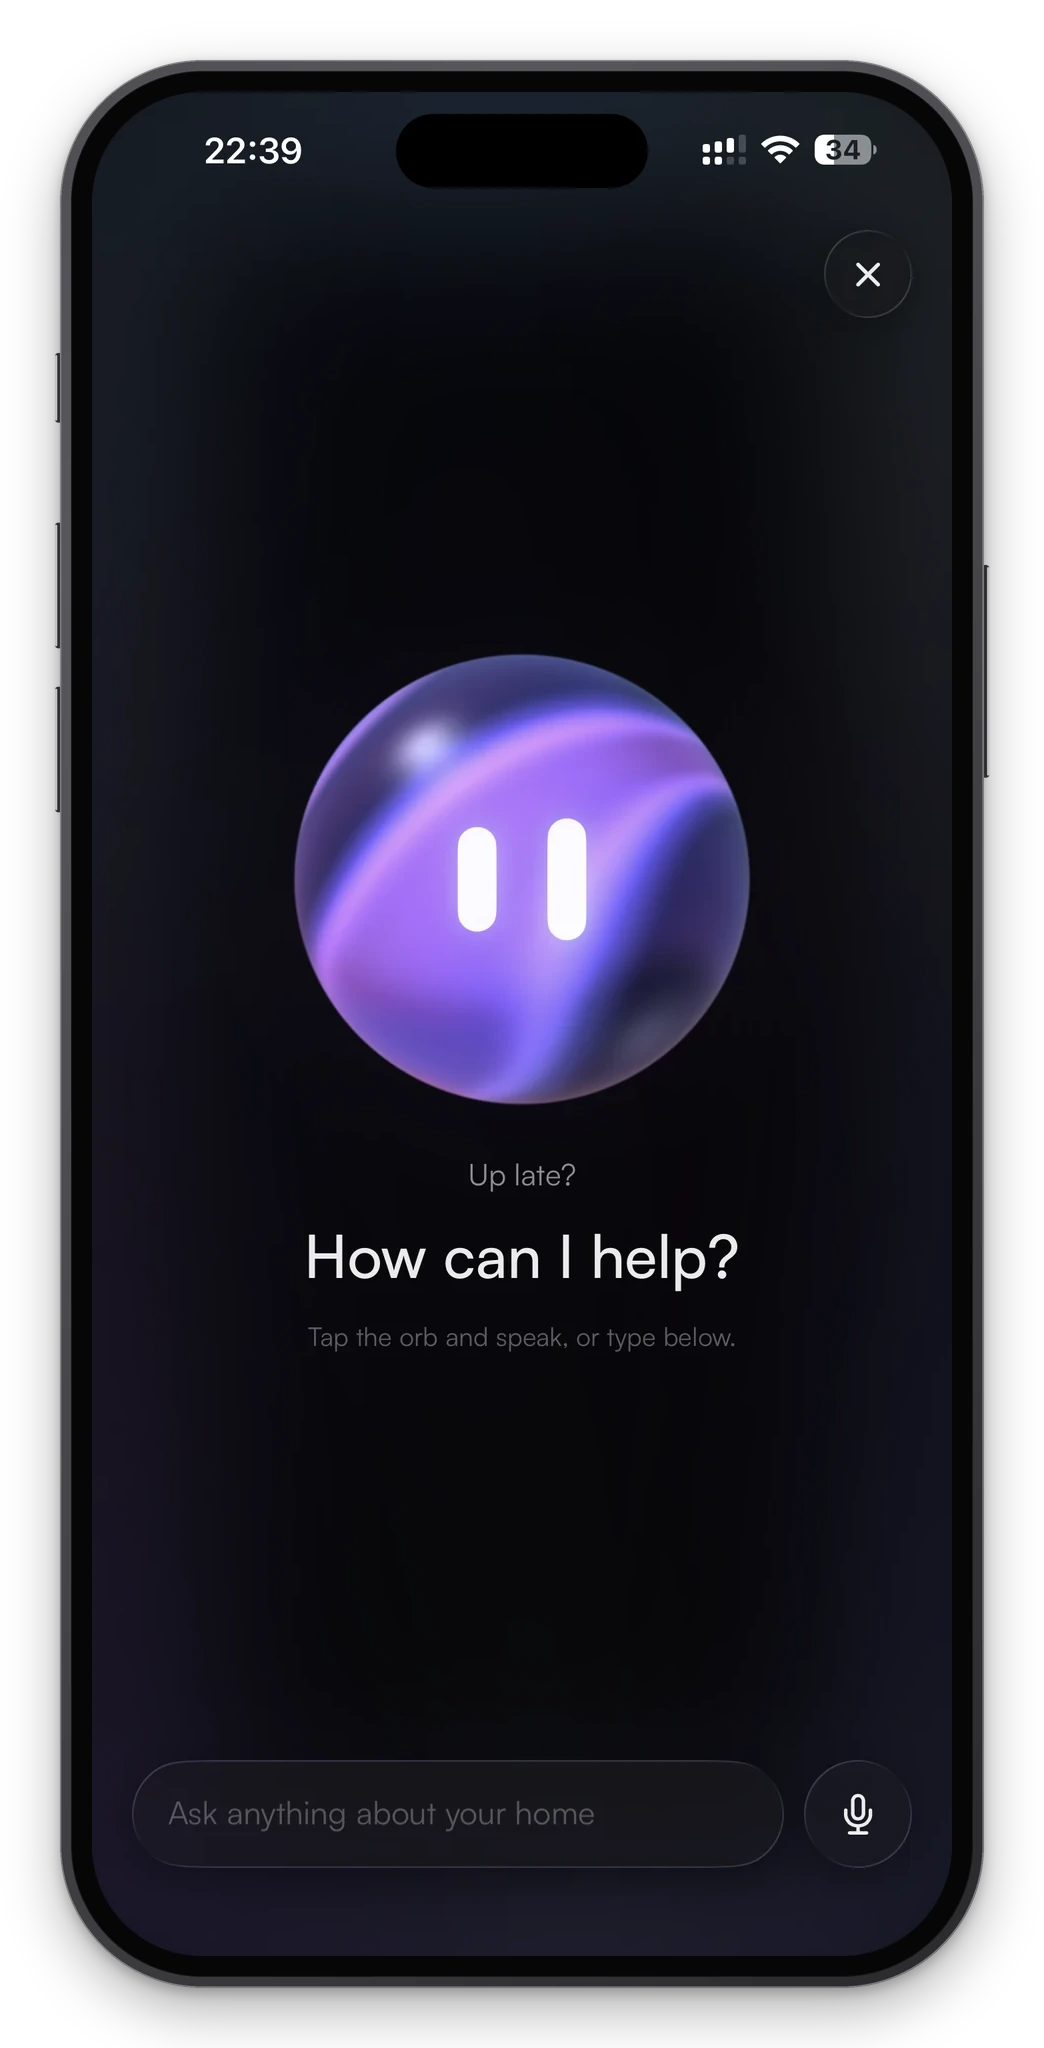
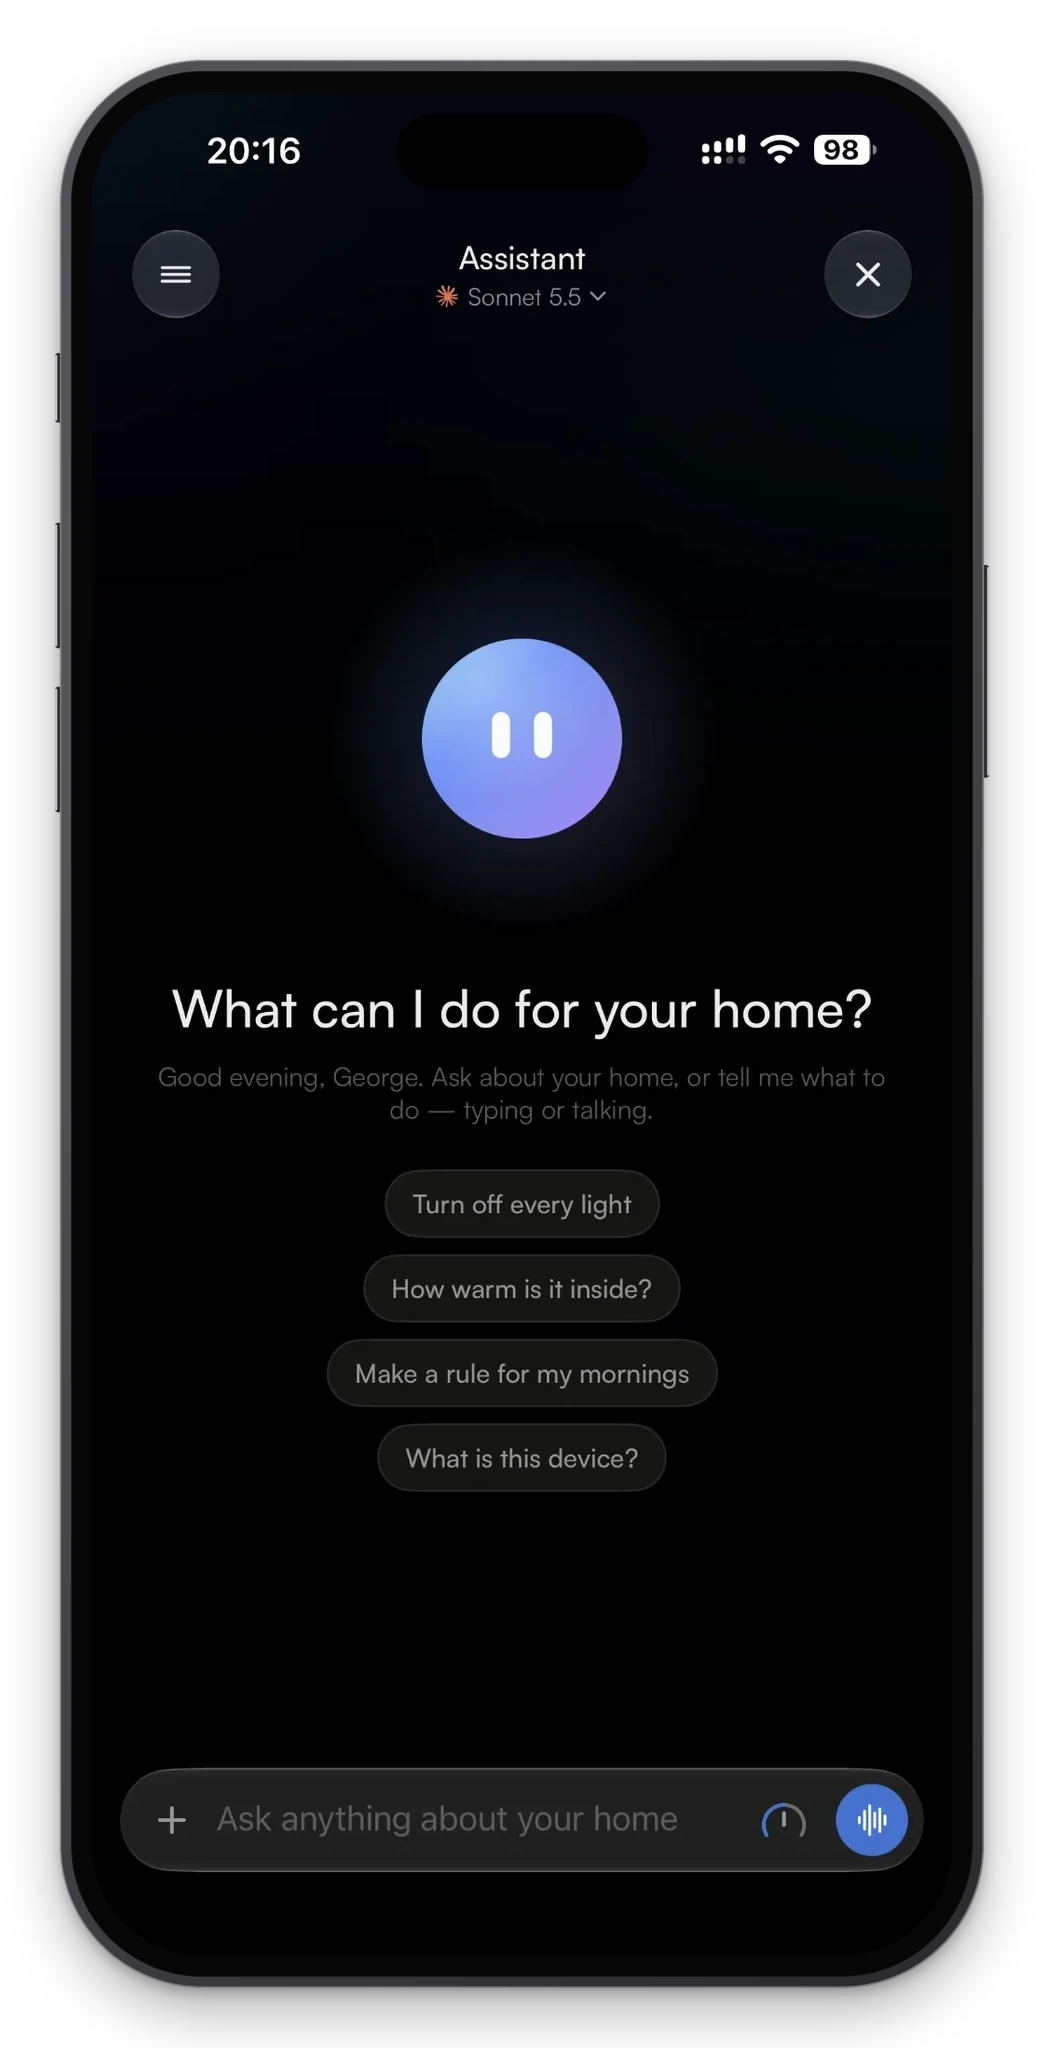
README: the assistant as the app draws it now
The README's assistant was the glass orb; the app's assistant is a round
face now. The picture is the website's capture of its empty page, in the
same drawn frame as the other two. The website has a dark capture of it
and no light one yet, so the README shows that one in both themes, rather
than the old orb on a light page beside the new face on a dark one.
docs/assets/README.md says so, and how the light one comes back.

Claude-Session: https://claude.ai/code/session_01RznYKstRnPiCQwvd5QiNYo

diff --git a/docs/assets/README.md b/docs/assets/README.md
@@ -9,8 +9,15 @@ the badge on Apple's.
 | `mark.png` | the gethome app icon, 144 × 144 | the website's `public/icons/mark.png` | 2026-09-29 |
 | `app-store-badge.svg` | Apple's "Download on the App Store" badge, black, US English | developer.apple.com, as Apple publishes it — not the website, which shows Apple's white one on its dark close | 2026-10-06 |
 | `screens/home-{light,dark}.webp` | the app's Home pane for the City Apartment demo home, in a drawn iPhone frame | the website's `public/screens/` as of 2026-10-01, framed (below) | 2026-10-16 |
-| `screens/assistant-{light,dark}.webp` | the assistant as it opens, in a drawn iPhone frame | the website's `public/screens/` as of 2026-09-29, framed | 2026-10-16 |
+| `screens/assistant-dark.webp` | the assistant as it opens — its round face — in a drawn iPhone frame, shown in both themes (below) | the website's `public/screens/` as of 2026-11-02, framed | 2026-11-02 |
 | `screens/device-{light,dark}.webp` | a lamp's device page (the older Studio demo home), in a drawn iPhone frame | the same | 2026-10-16 |
+
+**The assistant is dark in both themes for now.** The app's assistant became a
+face, and the website has a dark capture of it and no light one yet, so
+the README shows that one to every reader rather than the glass orb it replaced
+on a light page beside the face on a dark one — two different assistants
+depending on the reader's theme. A light capture, once the website publishes
+one, goes back under `screens/assistant-light.webp` with its `<source>` line.
 
 `mark.png` and the badge are byte-identical to the originals (sha256
 `c7189519…` and `a26fc5b3…`). The framed screens are made from the website's

diff --git a/README.md b/README.md
@@ -33,8 +33,7 @@
     <img src="docs/assets/screens/home-light.webp" width="31%" alt="The gethome app's Home pane for a demo home, City Apartment: all calm, 22.4° inside, one light on, everything secured, with scenes and favorite devices under it.">
   </picture>
   <picture>
-    <source media="(prefers-color-scheme: dark)" srcset="docs/assets/screens/assistant-dark.webp">
-    <img src="docs/assets/screens/assistant-light.webp" width="31%" alt="The gethome app's assistant: a glass orb asking “How can I help?”, with a box to type in and a microphone.">
+    <img src="docs/assets/screens/assistant-dark.webp" width="31%" alt="The gethome app's assistant: its round face over “What can I do for your home?”, four things to ask, and a box to type in with a button to talk.">
   </picture>
   <picture>
     <source media="(prefers-color-scheme: dark)" srcset="docs/assets/screens/device-dark.webp">
